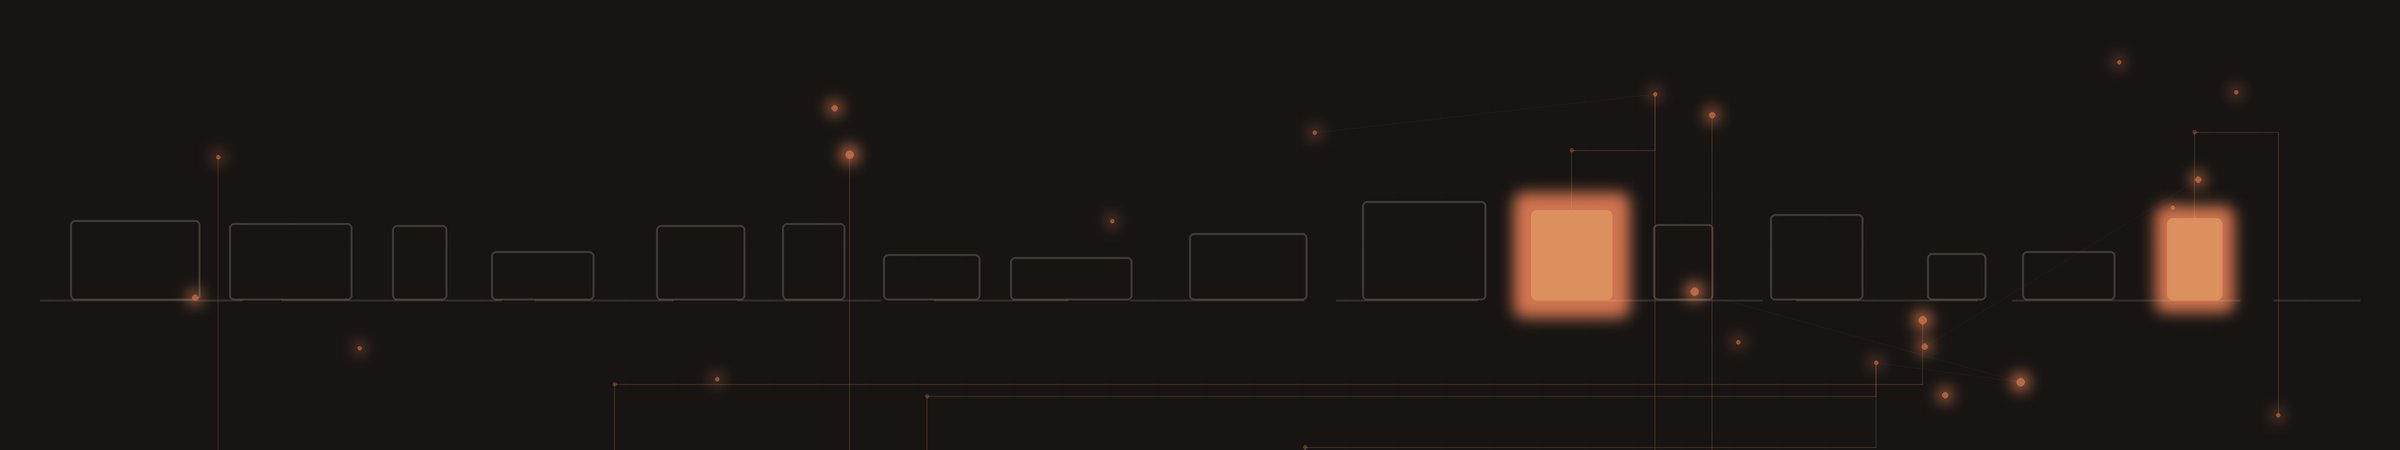
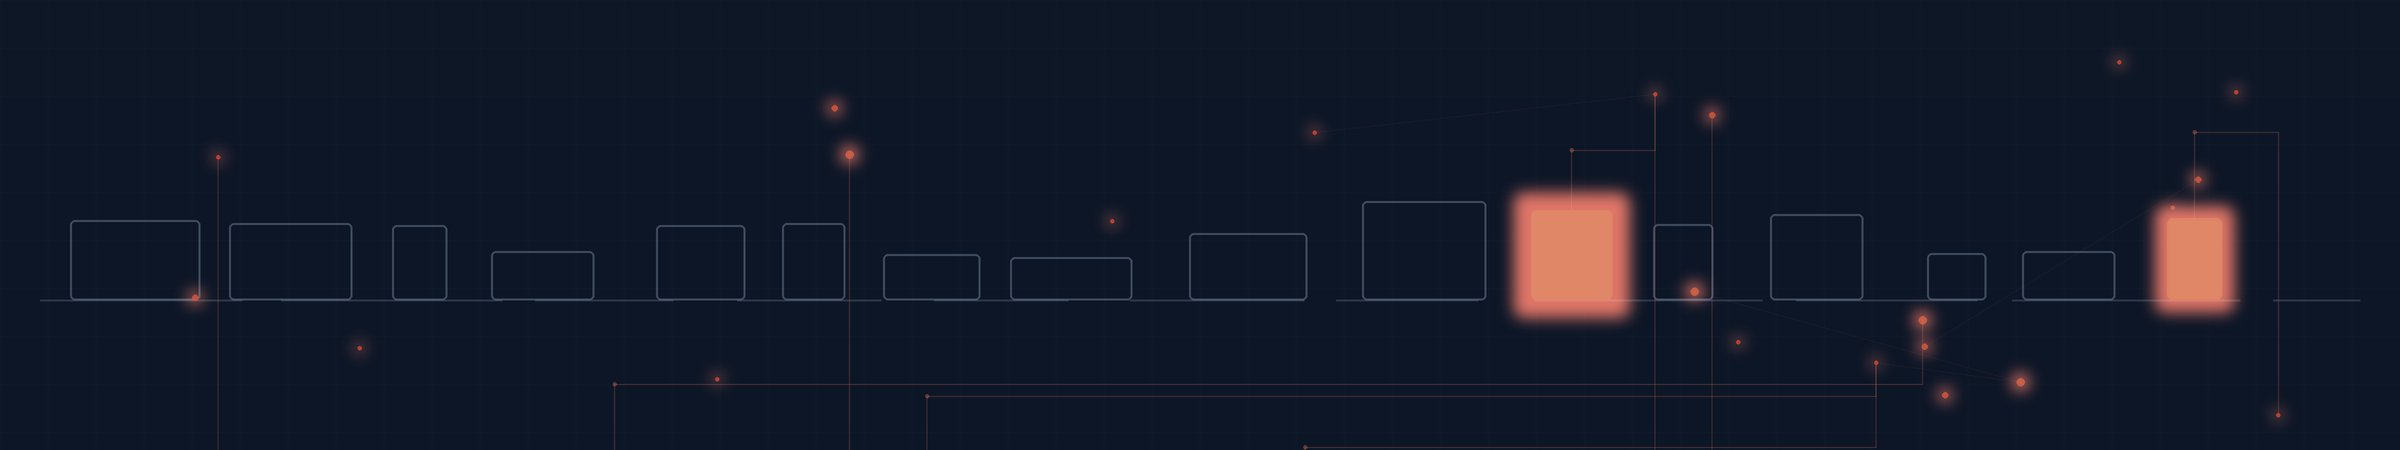
style upgrade
aggiornamento dello stile

diff --git a/style.css b/style.css
@@ -1,28 +1,32 @@
 
   :root {
-    --ink: #201D1B;
-    --accent: #C1552E;
-    --paper: #F4EFE9;
-    --gray: #8A8178;
+    --navy: #0F1A2B;
+    --navy-deep: #0B1220;
+    --blue: #0F4C9C;
+    --blue-hover: #1361BF;
+    --accent: #E4402A;
+    --accent-hover: #C93520;
+    --paper: #F5F6F8;
+    --gray: #6B7280;
     --white: #FFFFFF;
-    --border: #E2DAD0;
-    --hero-text-muted: #D9CEC2;
+    --border: #E2E5EA;
+    --hero-text-muted: #C7D2E0;
   }
   * { box-sizing: border-box; }
   body {
     margin: 0;
-    font-family: 'Bricolage Grotesque', sans-serif;
-    color: var(--ink);
+    font-family: 'Roboto', Arial, Helvetica, sans-serif;
+    color: #1A1D21;
     background: var(--paper);
     line-height: 1.5;
   }
   img { max-width: 100%; display: block; }
-  a { color: var(--accent); }
+  a { color: var(--blue); }
 
   header {
     position: sticky; top: 0; z-index: 10;
-    background: var(--paper);
-    border-bottom: 1px solid var(--border);
+    background: var(--white);
+    border-bottom: 3px solid var(--blue);
     padding: 14px 24px;
   }
   header .logo { height: 42px; }
@@ -42,14 +46,14 @@
     content: '';
     position: absolute;
     inset: 0;
-    background: radial-gradient(ellipse at center, rgba(26,23,21,0.55) 0%, rgba(20,18,16,0.82) 100%);
+    background: radial-gradient(ellipse at center, rgba(15,26,43,0.55) 0%, rgba(11,18,32,0.82) 100%);
   }
   .hero > * { position: relative; z-index: 1; }
   .hero h1 {
     font-size: clamp(28px, 4vw, 44px);
-    font-weight: 700;
+    font-weight: 900;
     margin: 0 0 20px;
-    color: var(--paper);
+    color: var(--white);
   }
   .hero p {
     font-size: 18px;
@@ -64,20 +68,21 @@
     text-decoration: none;
     font-weight: 700;
     padding: 14px 32px;
-    border-radius: 8px;
+    border-radius: 6px;
     font-size: 16px;
     border: none;
     cursor: pointer;
     font-family: inherit;
   }
-  .btn:hover { opacity: 0.92; }
+  .btn:hover { background: var(--accent-hover); }
 
   section { padding: 56px 0; }
   .section-title {
     font-size: 28px;
-    font-weight: 700;
+    font-weight: 900;
     text-align: center;
     margin-bottom: 40px;
+    color: var(--navy);
   }
 
   .cards {
@@ -89,10 +94,11 @@
   .card {
     background: var(--white);
     border: 1px solid var(--border);
-    border-radius: 12px;
+    border-top: 4px solid var(--blue);
+    border-radius: 8px;
     padding: 32px;
   }
-  .card h3 { margin: 0 0 12px; font-size: 20px; }
+  .card h3 { margin: 0 0 12px; font-size: 20px; color: var(--navy); font-weight: 700; }
   .card p { margin: 0; color: var(--gray); }
 
   .steps {
@@ -104,13 +110,13 @@
   @media (max-width: 700px) { .steps { grid-template-columns: 1fr; } }
   .step-num {
     width: 40px; height: 40px;
-    background: var(--ink); color: var(--white);
+    background: var(--blue); color: var(--white);
     border-radius: 50%;
     display: flex; align-items: center; justify-content: center;
     font-weight: 700;
     margin: 0 auto 16px;
   }
-  .step h4 { margin: 0 0 8px; }
+  .step h4 { margin: 0 0 8px; color: var(--navy); }
   .step p { margin: 0; color: var(--gray); font-size: 15px; }
 
   #contatti { background: var(--white); border-top: 1px solid var(--border); border-bottom: 1px solid var(--border); }
@@ -118,20 +124,21 @@
   .form-grid { display: grid; grid-template-columns: 1fr 1fr; gap: 20px; }
   @media (max-width: 700px) { .form-grid { grid-template-columns: 1fr; } }
   .form-grid .full { grid-column: 1 / -1; }
-  .field label { display: block; font-weight: 600; font-size: 14px; margin-bottom: 6px; }
+  .field label { display: block; font-weight: 700; font-size: 14px; margin-bottom: 6px; color: var(--navy); }
   .field input[type=text], .field input[type=email], .field select {
     width: 100%;
     padding: 11px 12px;
     border: 1px solid var(--border);
-    border-radius: 8px;
+    border-radius: 6px;
     font-family: inherit;
     font-size: 15px;
     background: var(--paper);
-    color: var(--ink);
+    color: #1A1D21;
   }
+  .field input:focus, .field select:focus { outline: none; border-color: var(--blue); }
   .select2-container { width: 100% !important; }
   .select2-container .select2-selection--single {
-    height: 44px; border: 1px solid var(--border); border-radius: 8px; background: var(--paper);
+    height: 44px; border: 1px solid var(--border); border-radius: 6px; background: var(--paper);
   }
   .select2-container--default .select2-selection--single .select2-selection__rendered { line-height: 42px; padding-left: 12px; }
   .select2-container--default .select2-selection--single .select2-selection__arrow { height: 42px; }
@@ -143,11 +150,11 @@
 
   footer {
     position: relative;
-    background-color: var(--ink);
+    background-color: var(--navy-deep);
     background-image: url('footer-bg.jpg');
     background-size: cover;
     background-position: center;
-    color: var(--paper);
+    color: var(--white);
     padding: 40px 24px;
     text-align: center;
     overflow: hidden;
@@ -156,8 +163,8 @@
     content: '';
     position: absolute;
     inset: 0;
-    background: rgba(26,23,21,0.55);
+    background: rgba(11,18,32,0.55);
   }
   footer > * { position: relative; z-index: 1; }
-  footer .logo-neg { height: 34px; margin: 0 auto 16px; }
-  footer p { color: var(--gray); font-size: 14px; margin: 4px 0; }
+  footer p { color: #A9B4C4; font-size: 14px; margin: 4px 0; }
+  footer a { color: var(--white); }

diff --git a/index.html b/index.html
@@ -6,7 +6,7 @@
 <title>Magazziniere Digitale — Il tuo magazzino, anche online</title>
 <link rel="preconnect" href="https://fonts.googleapis.com">
 <link rel="preconnect" href="https://fonts.gstatic.com" crossorigin>
-<link href="https://fonts.googleapis.com/css2?family=Bricolage+Grotesque:opsz,wght@12..96,400;12..96,600;12..96,700&display=swap" rel="stylesheet">
+<link href="https://fonts.googleapis.com/css2?family=Roboto:wght@400;500;700;900&display=swap" rel="stylesheet">
 <link rel="stylesheet" href="https://cdnjs.cloudflare.com/ajax/libs/select2/4.0.9/css/select2.min.css">
 <link rel="stylesheet" href="style.css">
 </head>
